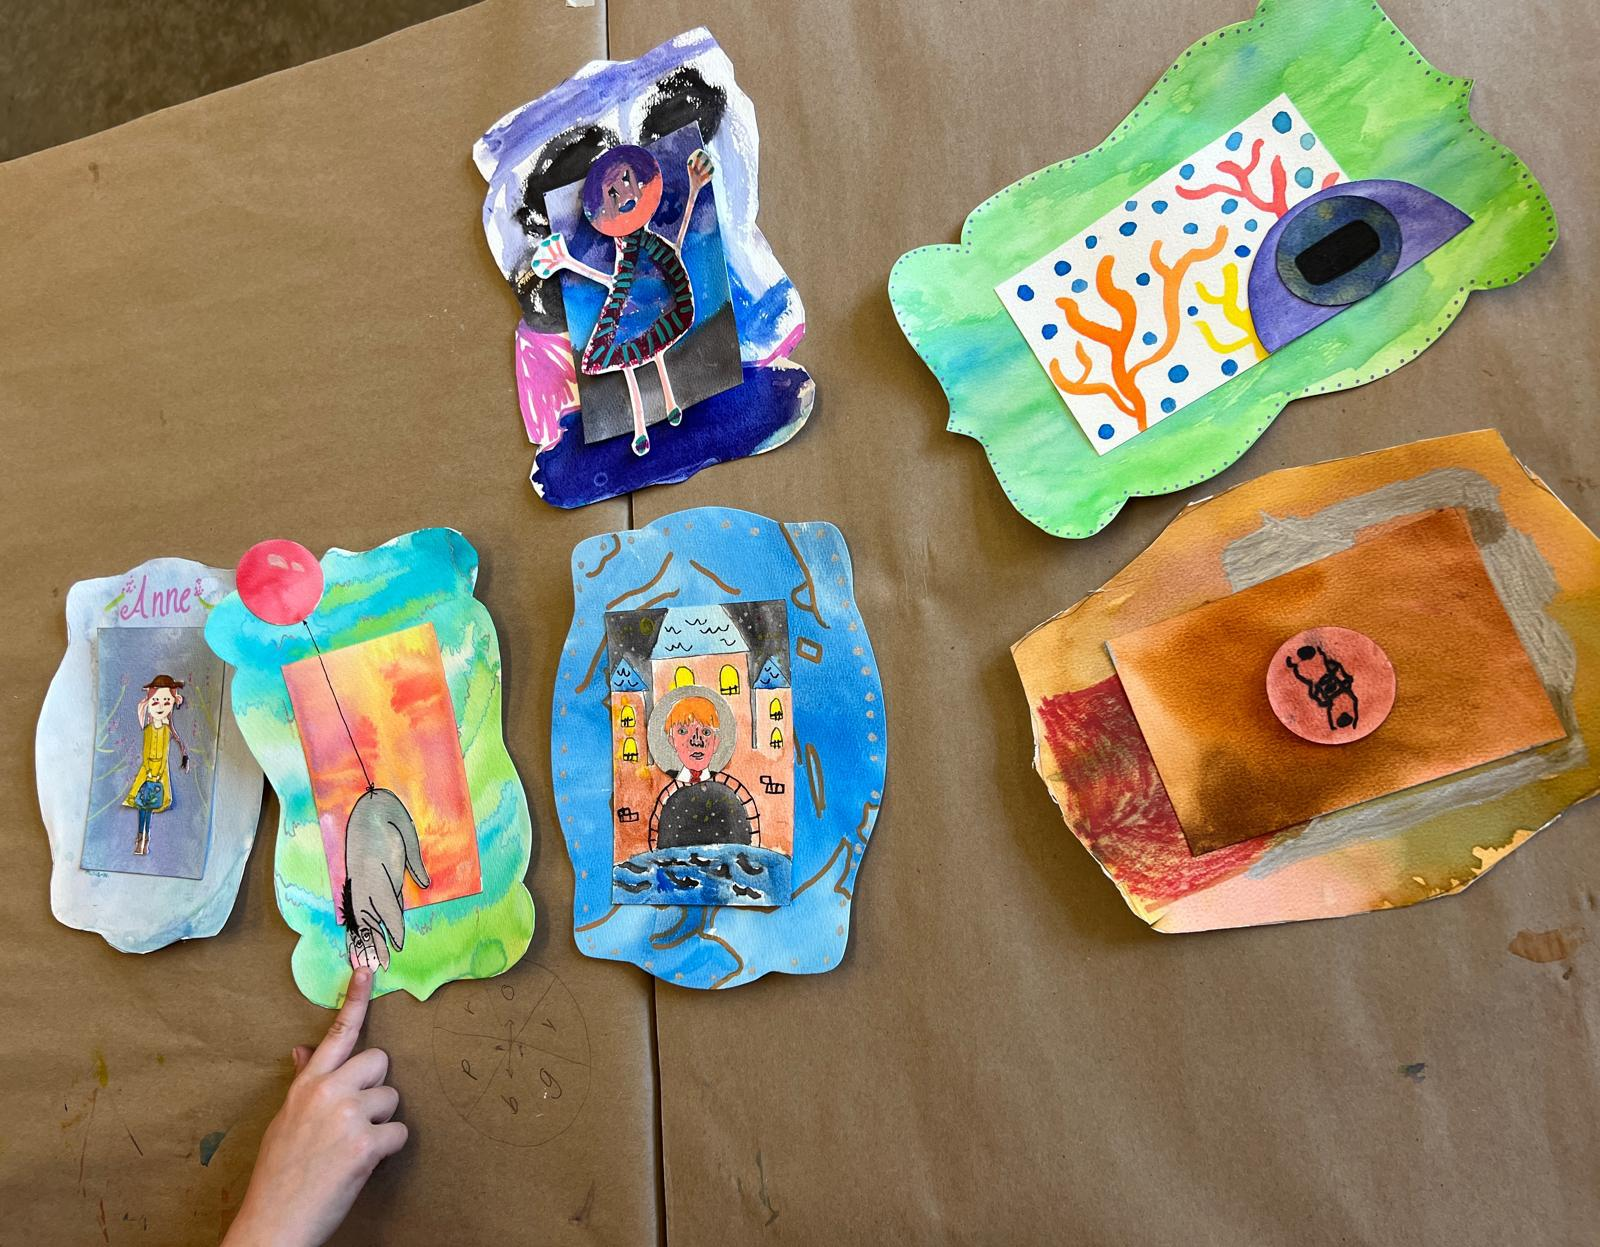
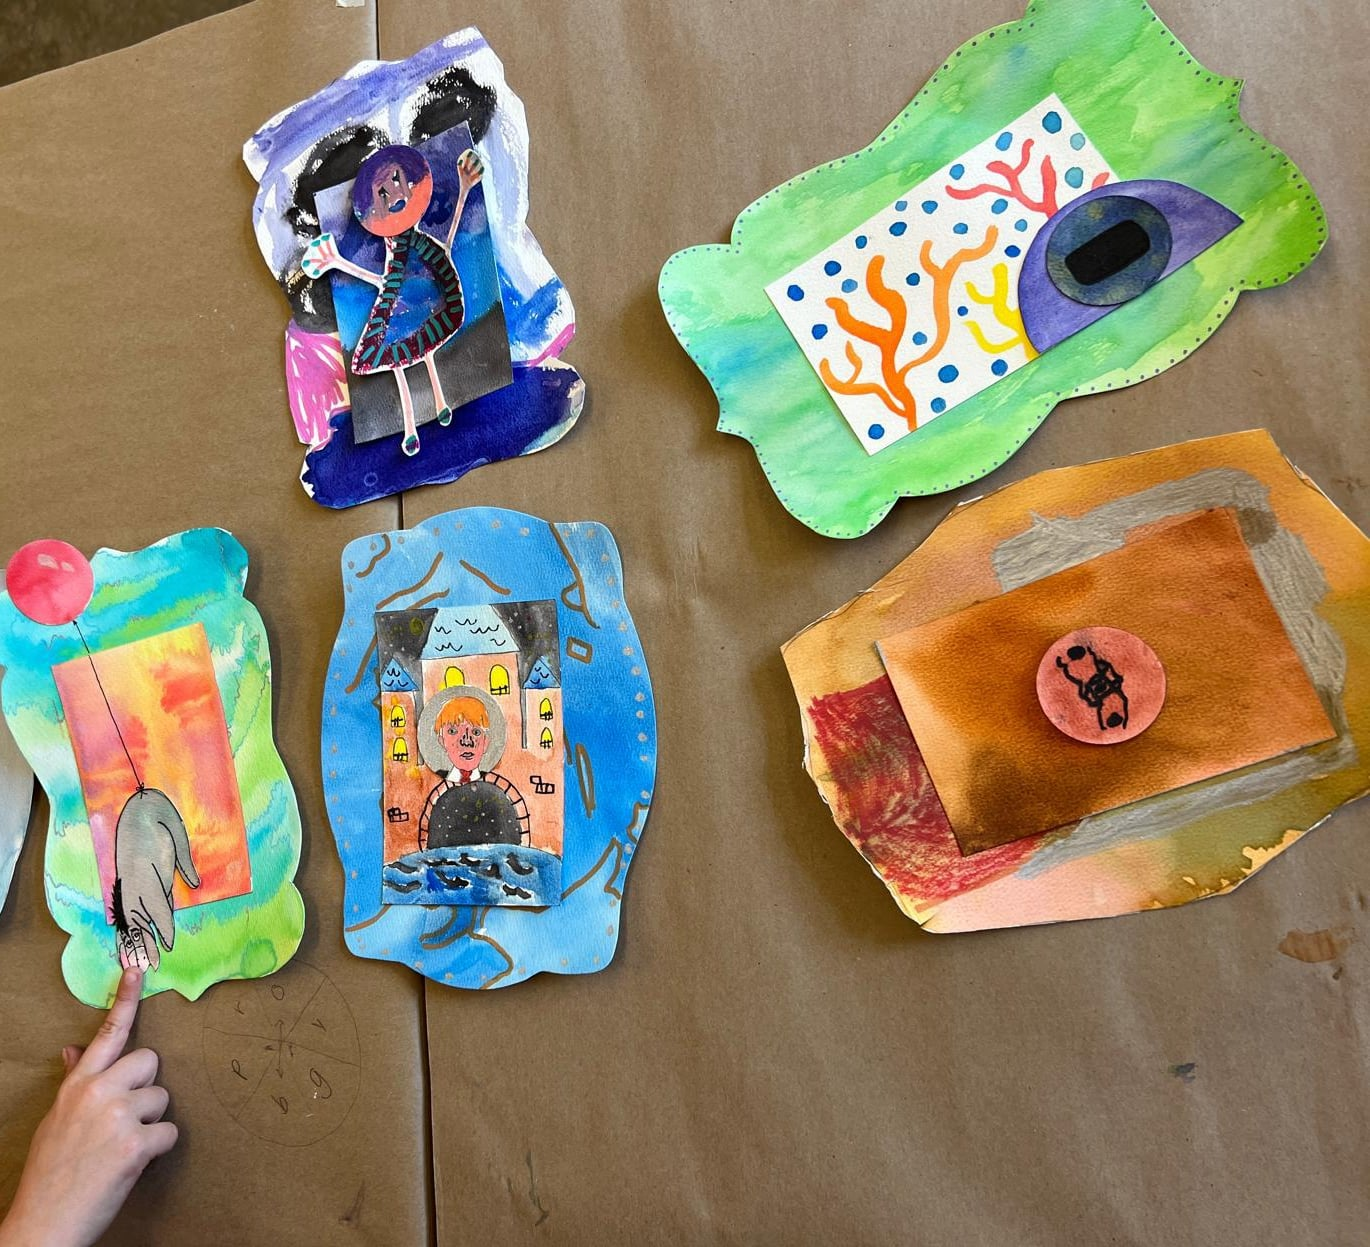
Crop a child's name out of the framed-artwork frame
"Anne" is hand-lettered across the top of the piece at the left of this
photograph, and unlike the stegosaurus's two it was inside the shipped crop:
it rendered on the landing page. The card it is written on cannot be kept
without it — the name sits on the mount, above the picture — so 230px come
off the left edge and that piece goes with them. Five pieces now, and the alt
says five.

The cut lands 39px right of the last letter and 25px right of the flourish
after it, and 8px left of the balloon, which stays whole because the alt
names it as what the finger is pointing at. A ~15px sliver of the card's
lower corner survives at the frame edge; it carries no letter and reads as a
corner of paper. Cutting at 245 would remove it and clip the balloon instead
— reviewed both and kept the balloon. Re-encoded at mozjpeg q85, 37.7 dB
below the source crop's own pixels.

A narrower frame is a shorter 16:9 band — 771px of 1247 where it was 900 —
so the crop was re-derived by rendering 25 through 85 and looking rather than
kept at 45. At 65 the pointing hand reads as a gesture and the whole lower
row is in frame.

Closes #185.

diff --git a/src/components/galleryImages.ts b/src/components/galleryImages.ts
@@ -91,13 +91,18 @@ export const GALLERY_IMAGES: GalleryImage[] = [
   },
   {
     src: "/gallery/framed-artwork-overhead.jpg",
-    alt: "Six finished pieces laid out on kraft paper, a child's finger pointing at the one with the balloon",
+    alt: "Five finished pieces laid out on kraft paper, a child's finger pointing at the one with the balloon",
     aspect: "wide",
     // The one crop here that loses something either way: both rows of work
-    // plus the pointing hand are taller than a 16:9 band. Slightly above
-    // centre keeps the hand and the whole lower row, and takes the loss off
-    // the top edges of the upper two.
-    crop: "50% 45%",
+    // plus the pointing hand are taller than a 16:9 band, and there is less to
+    // go round than there was. The frame lost 230px off its left edge in #185,
+    // taking with it a piece hand-lettered with a child's name, so the band is
+    // 771px of 1247 rather than 900 of 1247. Low enough to keep the pointing
+    // hand and all three of the lower row, which puts the loss on the top
+    // edges of the upper two. Rendered at 25 through 85 and looked: below 55
+    // the hand is a fingertip in the corner rather than a gesture, and above
+    // 75 the bottom third goes to bare kraft paper.
+    crop: "50% 65%",
   },
   {
     src: "/gallery/eeyore-and-balloon.jpg",

diff --git a/src/components/galleryImages.test.ts b/src/components/galleryImages.test.ts
@@ -117,7 +117,7 @@ const FRAME_SIZES: Record<string, { width: number; height: number }> = {
   "/gallery/kids-with-portraits.jpg": { width: 1200, height: 1600 },
   "/gallery/neon-marker-robots.jpg": { width: 1200, height: 1600 },
   "/gallery/cherry-blossom-brushwork.jpg": { width: 1600, height: 1200 },
-  "/gallery/framed-artwork-overhead.jpg": { width: 1600, height: 1247 },
+  "/gallery/framed-artwork-overhead.jpg": { width: 1370, height: 1247 },
   "/gallery/eeyore-and-balloon.jpg": { width: 1200, height: 1600 },
   "/gallery/cactus-collage.jpg": { width: 1200, height: 1600 },
   "/gallery/sumi-e-sun-and-bamboo.jpg": { width: 1200, height: 1600 },
